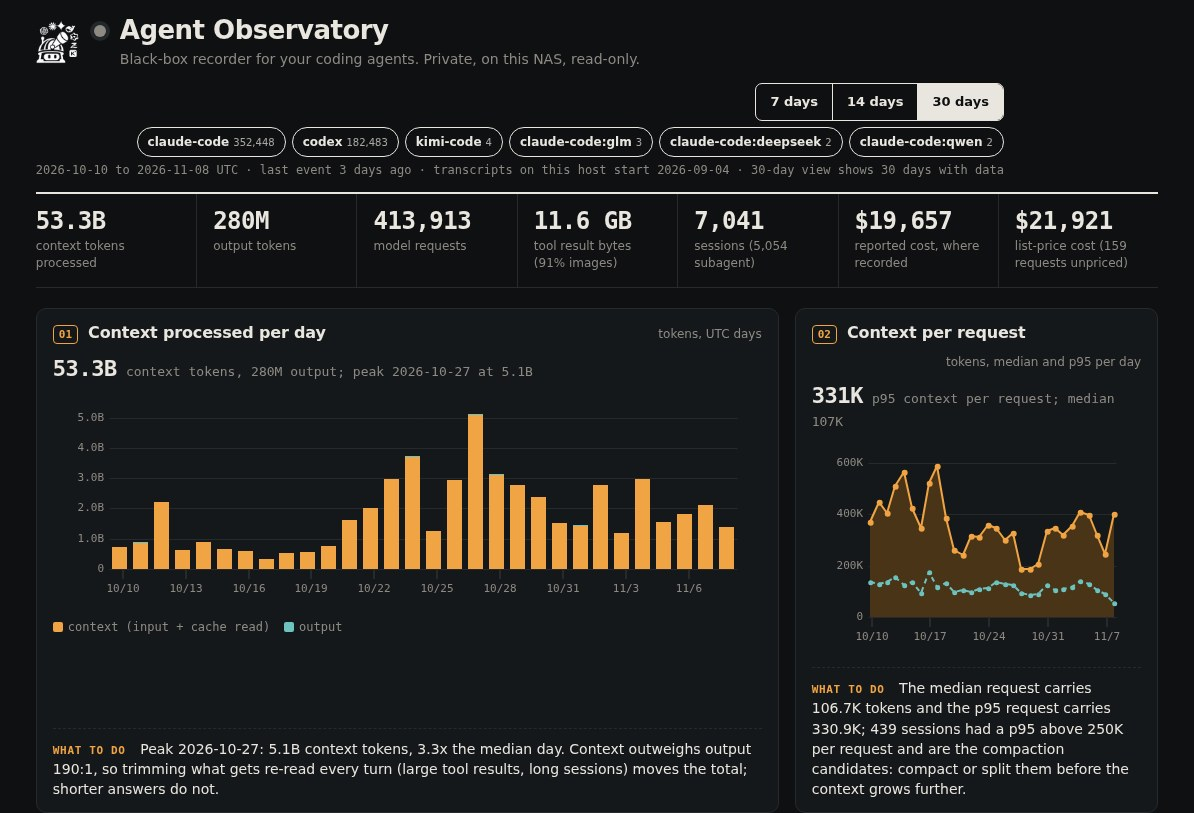
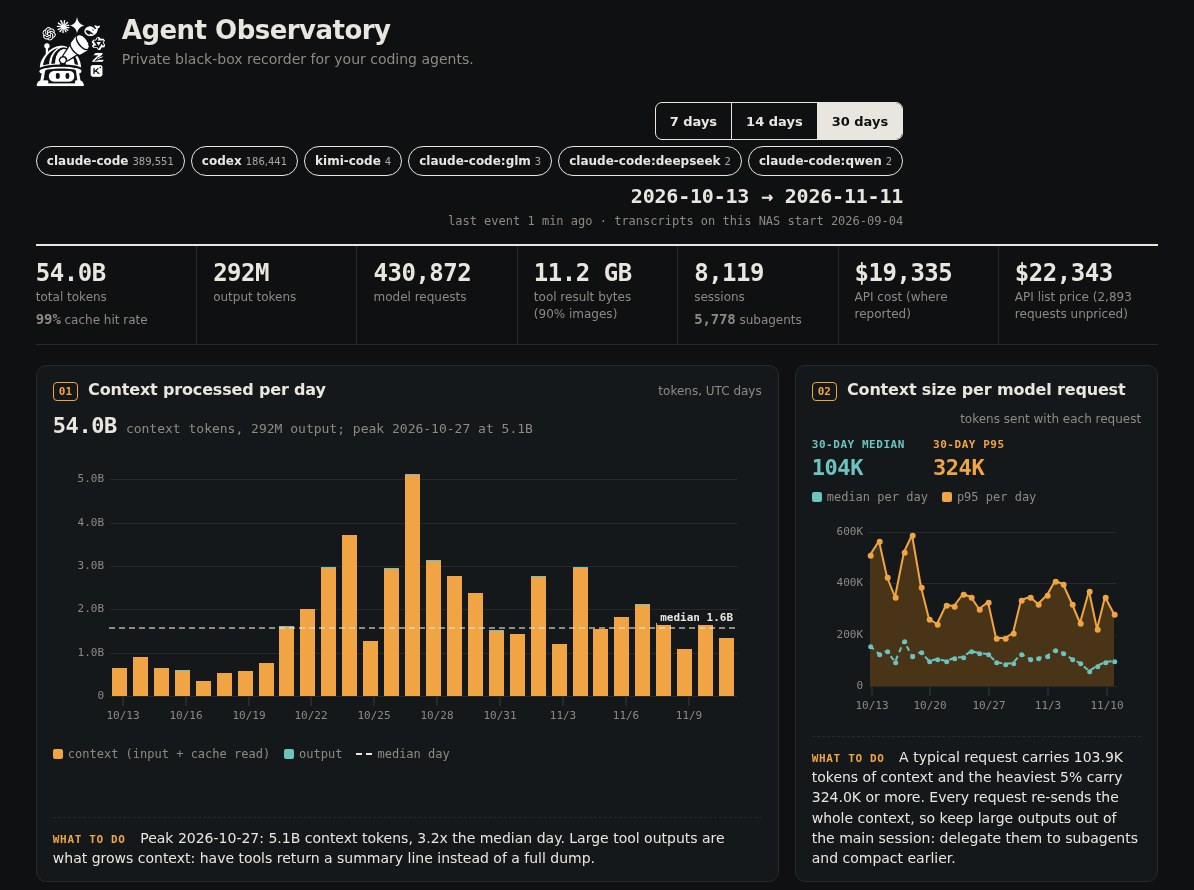
dashboard: clearer header, tiles and context charts

diff --git a/obs/static/app.js b/obs/static/app.js
@@ -90,20 +90,36 @@
       tag.style.left = Math.max(0, (L - u.bbox.left) / dpr + 6) + "px"; };
   }
 
+  // dashed horizontal reference line at value y, labelled at the right edge of the plot
+  function medianHook(y, label) {
+    return (u) => { if (y == null) return;
+      const c = u.ctx, dpr = devicePixelRatio, py = Math.round(u.valToPos(y, "y", true));
+      if (py < u.bbox.top || py > u.bbox.top + u.bbox.height) return;
+      c.save(); c.strokeStyle = css("--ink") || "#888"; c.globalAlpha = 0.75; c.lineWidth = 1.5 * dpr;
+      c.setLineDash([6 * dpr, 4 * dpr]); c.beginPath(); c.moveTo(u.bbox.left, py); c.lineTo(u.bbox.left + u.bbox.width, py); c.stroke();
+      c.setLineDash([]); c.globalAlpha = 1; c.font = `600 ${11 * dpr}px ${css("--mono")}`; c.textAlign = "right"; c.textBaseline = "bottom";
+      const tx = u.bbox.left + u.bbox.width - 4 * dpr, ty = py - 4 * dpr, tw = c.measureText(label).width;
+      c.fillStyle = css("--panel") || "#000"; c.fillRect(tx - tw - 3 * dpr, ty - 13 * dpr, tw + 6 * dpr, 14 * dpr);
+      c.fillStyle = css("--ink") || "#888"; c.fillText(label, tx, ty); c.restore(); };
+  }
+
   function drawContext(d) {
     const rows = d.rows, xs = xsOf(rows), half = stepOf(d) / 2;
     const ctx = rows.map((r) => r.context), tot = rows.map((r) => (r.no_data ? null : r.context + r.output));
     const bar = uPlot.paths.bars({ size: [0.72, 48], align: 0 });
     const ro = $("r-context");
     const key = `<span class="key"><span><i class="sw" style="background:${css("--accent")}"></i>context (input + cache read)</span>` +
-      `<span><i class="sw" style="background:${css("--cool")}"></i>output</span></span>`;
+      `<span><i class="sw" style="background:${css("--cool")}"></i>output</span>` +
+      (d.median_context != null ? `<span><i class="sw dash"></i>median day</span>` : "") + `</span>`;
     ro.innerHTML = key;
     plot("context", $("c-context"), {
+      height: 300,
       scales: { x: { time: true, range: (u, a, b) => [a - half, b + half] }, y: { range: (u, a, b) => [0, b * 1.05] } },
       axes: axes(tok, d.bucket),
       series: [{}, { label: "output", fill: css("--cool"), stroke: css("--cool"), paths: bar, width: 0, points: { show: false } },
                    { label: "context", fill: css("--accent"), stroke: css("--accent"), paths: bar, width: 0, points: { show: false } }],
-      hooks: { draw: [noDataHook(rows, half)], setCursor: [(u) => { const i = u.cursor.idx; if (i == null) { ro.innerHTML = key; return; }
+      hooks: { draw: [noDataHook(rows, half), medianHook(d.median_context, "median " + tok(d.median_context))],
+        setCursor: [(u) => { const i = u.cursor.idx; if (i == null) { ro.innerHTML = key; return; }
         const r = rows[i]; if (r.no_data) { ro.textContent = `${r.day}  no data (before the first recorded event)`; return; }
         ro.textContent = `${r.day}  context ${int(r.context)}  output ${int(r.output)}  requests ${int(r.requests)}`; }] },
     }, [xs, tot, ctx]);
@@ -114,6 +130,9 @@
   function drawCache(d) {
     const rows = d.rows;
     const xs = xsOf(rows), p50 = rows.map((r) => r.p50), p95 = rows.map((r) => r.p95), q = stepOf(d) / 4;
+    const per = d.bucket === "hour" ? "hour" : "day", span = d.bucket === "hour" ? "day" : `${days}-day`;
+    $("r-cache").innerHTML = `<span class="key"><span><i class="sw" style="background:${css("--cool")}"></i>median per ${per}</span>` +
+      `<span><i class="sw" style="background:${css("--accent")}"></i>p95 per ${per}</span></span>`;
     plot("cache", $("c-cache"), {
       scales: { x: { time: true, range: (u, a, b) => [a - q, b + q] }, y: { range: (u, lo, hi) => [0, (hi || 1) * 1.08] } },
       axes: axes((v) => tok(v), d.bucket),
@@ -121,7 +140,9 @@
         { label: "p95", stroke: css("--accent"), width: 2, fill: css("--accent-soft"), points: { show: true, size: 6, fill: css("--accent") } },
         { label: "median", stroke: css("--cool"), width: 2, dash: [5, 4], points: { show: true, size: 5, fill: css("--cool") } }],
     }, [xs, p95, p50]);
-    $("f-cache").innerHTML = d.p95 == null ? "" : `<b>${tok(d.p95)}</b> <span>p95 context per request; median ${tok(d.p50)}</span>`;
+    $("f-cache").innerHTML = d.p95 == null ? "" :
+      `<div class="stat" style="color:${css("--cool")}"><span>${span} median</span><b>${tok(d.p50)}</b></div>` +
+      `<div class="stat" style="color:${css("--accent")}"><span>${span} p95</span><b>${tok(d.p95)}</b></div>`;
   }
 
   const secs = (ms) => { ms = +ms || 0; return ms >= 120000 ? (ms / 60000).toFixed(1) + " min" : (ms / 1000).toFixed(ms < 10000 ? 1 : 0) + " s"; };
@@ -417,24 +438,26 @@
     const w = m.watch_status;
     const rec = $("rec");
     const cv = m.coverage, since = cv && cv.earliest_event ? cv.earliest_event.slice(0, 10) : null;
-    let s = `${m.first_day} to ${m.last_day} UTC · last event ${ago(m.last_event)}`;
-    if (since) s += ` · transcripts on this host start ${since}` + (m.days ? ` · ${m.days}-day view shows ${m.days_with_data} days with data` : "");
+    const a = m.range_start || m.first_day, b = m.range_end || m.last_day;
+    $("range").textContent = a && b ? (a === b ? a : `${a} → ${b}`) : "";
+    let s = m.last_event ? `last event ${ago(m.last_event)}` : "nothing recorded yet";
+    if (since) s += ` · transcripts on this NAS start ${since}`;
     if (STATIC) { /* status already set */ } else if (w) {
-      s += w.ok ? ` · last ingest ${ago(w.last_run)} (${w.seconds}s)` : ` · last ingest failed: ${w.error}`;
       rec.className = "rec " + (w.ok && Date.now() - Date.parse(w.last_run) < 3 * (w.interval_min || 10) * 60000 ? "live" : "stale");
     } else rec.className = "rec";
     if (!STATIC) $("status").textContent = s;
     const k = [
-      [tok(m.context_tokens), "context tokens processed"],
+      [tok(m.context_tokens), "total tokens", m.cache_hit_rate != null ? [pct(m.cache_hit_rate, 0), "cache hit rate"] : null],
       [tok(m.output_tokens), "output tokens"],
       [int(m.requests), "model requests"],
       [bytes(m.tool_bytes), m.image_bytes ? `tool result bytes (${pct(m.image_bytes / (m.tool_bytes || 1), 0)} images)` : "tool result bytes"],
-      [int(m.sessions), `sessions (${int(m.subagent_sessions)} subagent)`],
-      [m.cost_usd ? "$" + Math.round(m.cost_usd).toLocaleString("en-US") : "n/a", "reported cost, where recorded"],
-      [m.list_cost_usd ? "$" + Math.round(m.list_cost_usd).toLocaleString("en-US") : "n/a", `list-price cost (${int(m.list_unpriced)} requests unpriced)`],
+      [int(m.sessions), "sessions", [int(m.subagent_sessions), m.subagent_sessions === 1 ? "subagent" : "subagents"]],
+      [m.cost_usd ? "$" + Math.round(m.cost_usd).toLocaleString("en-US") : "n/a", "API cost (where reported)"],
+      [m.list_cost_usd ? "$" + Math.round(m.list_cost_usd).toLocaleString("en-US") : "n/a", `API list price (${int(m.list_unpriced)} requests unpriced)`],
     ];
     if (m.prices_as_of) $("prices").textContent = `${m.prices_as_of}. Reported cost $${(+m.cost_usd || 0).toFixed(2)} (harness, where recorded); list-price cost $${(+m.list_cost_usd || 0).toFixed(2)}.`;
-    $("kpis").innerHTML = k.map(([v, l]) => `<div class="kpi"><div class="v">${esc(v)}</div><div class="k">${esc(l)}</div></div>`).join("");
+    $("kpis").innerHTML = k.map(([v, l, x]) => `<div class="kpi"><div class="v">${esc(v)}</div><div class="k">${esc(l)}</div>` +
+      (x ? `<div class="x"><b>${esc(x[0])}</b> ${esc(x[1])}</div>` : "") + `</div>`).join("");
   }
 
   const PANELS = ["context", "cache", "tools", "largest", "repeats", "sessions", "models", "loops", "subagents", "skills", "bash", "readtypes", "compactions", "beforeafter"];

diff --git a/obs/static/app.css b/obs/static/app.css
@@ -44,6 +44,8 @@ h1 { font: 700 26px/1.1 var(--sans); letter-spacing: -0.02em; margin: 0; }
   border: 0; border-left: 1px solid var(--ink); cursor: pointer; }
 .seg button:first-child { border-left: 0; }
 .seg button[aria-pressed="true"] { background: var(--ink); color: var(--bg); }
+.range { margin: 2px 0 0; font: 700 20px/1.2 var(--mono); letter-spacing: -0.01em; text-align: right; }
+.range:empty { display: none; }
 .status { margin: 0; font: 12px/1.3 var(--mono); color: var(--muted); text-align: right; }
 
 .kpis { max-width: 1360px; margin: 0 auto; display: grid; grid-template-columns: repeat(auto-fit, minmax(150px, 1fr));
@@ -52,6 +54,8 @@ h1 { font: 700 26px/1.1 var(--sans); letter-spacing: -0.02em; margin: 0; }
 .kpi + .kpi { padding-left: 16px; border-left: 1px solid var(--rule); }
 .kpi .v { font: 600 24px/1.1 var(--mono); letter-spacing: -0.02em; }
 .kpi .k { font-size: 12px; color: var(--muted); margin-top: 3px; }
+.kpi .x { font-size: 12px; color: var(--muted); margin-top: 6px; }
+.kpi .x b { font: 600 14px/1 var(--mono); letter-spacing: -0.01em; }
 
 .grid { max-width: 1360px; margin: 20px auto 0; display: grid; grid-template-columns: repeat(12, minmax(0, 1fr)); gap: 16px; }
 .panel { background: var(--panel); border: 1px solid var(--rule); border-radius: 10px; padding: 14px 16px 12px;
@@ -65,10 +69,15 @@ h2 { font: 650 16px/1.2 var(--sans); margin: 0; letter-spacing: -0.01em; }
 .figure { font: 600 15px/1.35 var(--mono); margin: 10px 0 6px; }
 .figure b { font-size: 22px; letter-spacing: -0.02em; }
 .figure span { color: var(--muted); font-weight: 400; font-size: 13px; }
+.figure.duo { display: flex; gap: 28px; flex-wrap: wrap; }
+.figure.duo .stat { display: flex; flex-direction: column; gap: 2px; }
+.figure.duo .stat span { color: inherit; font: 600 11px/1.2 var(--mono); text-transform: uppercase; letter-spacing: .05em; }
+.figure.duo .stat b { font-size: 22px; }
 .chart { min-height: 220px; }
 .readout { font: 12px/1.4 var(--mono); color: var(--muted); min-height: 1.4em; }
 .key { display: inline-flex; gap: 14px; }
 .sw { display: inline-block; width: 10px; height: 10px; border-radius: 2px; margin-right: 5px; vertical-align: -1px; }
+.sw.dash { width: 16px; height: 0; border-radius: 0; border-top: 2px dashed var(--ink); vertical-align: 3px; }
 .hint { margin: auto 0 0; padding-top: 10px; border-top: 1px dashed var(--rule); font-size: 14px; line-height: 1.45; }
 .hint::before { content: "What to do  "; font: 700 11px/1 var(--mono); letter-spacing: .06em; text-transform: uppercase;
   color: var(--accent); white-space: pre; }
@@ -99,7 +108,7 @@ tr:hover td { background: var(--bar); }
 .uplot { font-family: var(--mono); }
 @media (max-width: 860px) {
   .controls { align-items: flex-start; width: 100%; }
-  .status { text-align: left; }
+  .status, .range { text-align: left; }
   .kpis { grid-template-columns: repeat(3, 1fr); }
   .kpi, .kpi + .kpi { padding: 12px 10px; border-left: 0; border-top: 1px solid var(--rule); }
 }

diff --git a/obs/static/index.html b/obs/static/index.html
@@ -17,7 +17,7 @@
     <span class="rec" id="rec" title="recorder status"></span>
     <div>
       <h1>Agent Observatory</h1>
-      <p class="sub">Black-box recorder for your coding agents. Private, on this NAS, read-only.</p>
+      <p class="sub">Private black-box recorder for your coding agents.</p>
     </div>
   </div>
   <div class="controls">
@@ -25,6 +25,7 @@
       <button data-days="7">7 days</button><button data-days="14">14 days</button><button data-days="30">30 days</button>
     </div>
     <div class="chips" id="chips" role="group" aria-label="Harness filter"></div>
+    <p class="range" id="range"></p>
     <p class="status" id="status">Reading the recorder&hellip;</p>
   </div>
 </header>
@@ -41,8 +42,9 @@
   </article>
 
   <article class="panel narrow" id="p-cache">
-    <header><span class="ch">02</span><h2>Context per request</h2><span class="unit">tokens, median and p95 per day</span></header>
-    <div class="figure" id="f-cache"></div>
+    <header><span class="ch">02</span><h2>Context size per model request</h2><span class="unit">tokens sent with each request</span></header>
+    <div class="figure duo" id="f-cache"></div>
+    <div class="readout" id="r-cache"></div>
     <div class="chart" id="c-cache"></div>
     <p class="hint" id="h-cache"></p>
   </article>

diff --git a/obs/panels.py b/obs/panels.py
@@ -3,7 +3,7 @@
 A View is either a trailing range of UTC days ending at the newest recorded day (dashboard) or one
 UTC day (report.html, charts bucketed by hour). Every panel returns {"rows": [...], "hint": "...", ...}.
 """
-import glob, json, os, re, threading
+import glob, json, os, re, statistics, threading
 from datetime import date, datetime, timedelta, timezone
 import duckdb
 from .ingest import IMAGE_TOKENS
@@ -213,6 +213,8 @@ def p_meta(v):
         count(distinct session_id) filter (agent='subagent') subagent_sessions,
         count(*) filter (event_type='llm_request') requests,
         coalesce(sum(input_tokens + cache_read_tokens),0) context_tokens,
+        coalesce(sum(input_tokens) filter (cache_read_tokens is not null),0) input_tokens,
+        coalesce(sum(cache_read_tokens) filter (input_tokens is not null),0) cache_read_tokens,
         coalesce(sum(output_tokens),0) output_tokens,
         coalesce(sum(content_bytes) filter (event_type='tool_result'),0) tool_bytes,
         coalesce(sum(image_bytes) filter (event_type='tool_result'),0) image_bytes,
@@ -230,6 +232,14 @@ def p_meta(v):
             except ValueError:
                 pass
     m["days"], m["day"] = v.days, v.day
+    # share of context served from cache: cache_read / (input + cache_read), selected range
+    m["cache_hit_rate"] = (m["cache_read_tokens"] / m["context_tokens"]) if m["context_tokens"] else None
+    if v.day:
+        m["range_start"] = m["range_end"] = v.day
+    else:
+        end = v.q("select max(cast(ts as date))::varchar e from raw")[0]["e"]
+        m["range_end"] = end
+        m["range_start"] = (date.fromisoformat(end) - timedelta(days=v.days - 1)).isoformat() if end else None
     m["harnesses"], m["harness_filter"] = v.harnesses(), v.harness
     g = v.q("""select strftime(min(ts), '%Y-%m-%dT%H:%M:%SZ') e, strftime(max(ts), '%Y-%m-%dT%H:%M:%SZ') l,
         (select count(distinct cast(ts as date)) from ev) wd from raw""")[0]
@@ -257,16 +267,17 @@ def p_context(v):
     med = sorted(r["context"] for r in rows)[len(rows) // 2] or 1
     ctx, outp = sum(r["context"] for r in rows), sum(r["output"] for r in rows) or 1
     unit = "hour" if v.bucket == "hour" else "day"
+    days_med = statistics.median(r["context"] for r in rows)
     hint = (f"Peak {peak['day']}: {human_tokens(peak['context'])} context tokens, {peak['context'] / med:.1f}x the median {unit}. "
-            f"Context outweighs output {ctx / outp:,.0f}:1, so trimming what gets re-read every turn "
-            f"(large tool results, long sessions) moves the total; shorter answers do not.")
+            f"Large tool outputs are what grows context: have tools return a summary line instead of a full dump.")
     if not v.day:
         g = v.q("select strftime(min(ts), '%Y-%m-%d') e, strftime(max(ts), '%Y-%m-%d') l from raw")[0]
         pad = no_data_rows(rows[0]["day"], g["l"], v.days, g["e"], ["input", "cache_read", "cache_write", "output", "requests", "context"])
         rows = pad + rows
         if pad:
             hint += f" {pad[0]['day']} to {pad[-1]['day']} predate the first recorded event ({g['e']}): no data, not zero."
-    return {"rows": rows, "hint": hint, "total_context": ctx, "total_output": outp, "bucket": v.bucket}
+    return {"rows": rows, "hint": hint, "total_context": ctx, "total_output": outp, "median_context": days_med,
+            "bucket": v.bucket}
 
 
 def p_cache(v):
@@ -279,17 +290,12 @@ def p_cache(v):
     o = v.q("""select quantile_cont(input_tokens + cache_read_tokens, 0.5)::bigint p50,
         quantile_cont(input_tokens + cache_read_tokens, 0.95)::bigint p95, count(*)::bigint requests
         from ev where event_type='llm_request' and input_tokens + cache_read_tokens > 0""")[0]
-    big = v.q("""select count(*)::bigint n from (select session_id from ev
-        where event_type='llm_request' and input_tokens + cache_read_tokens > 0
-        group by 1 having quantile_cont(input_tokens + cache_read_tokens, 0.95) > 250000)""")[0]["n"]
     if not o["requests"]:
-        return {"rows": rows, "hint": f"No model requests recorded {v.span}.", "p50": None, "p95": None,
-                "big_sessions": 0, "bucket": v.bucket}
-    hint = (f"The median request carries {human_tokens(o['p50'])} tokens and the p95 request carries "
-            f"{human_tokens(o['p95'])}; {big} session{'s' if big != 1 else ''} had a p95 above 250K per request "
-            f"and {'are the compaction candidates' if big != 1 else 'is the compaction candidate'}: "
-            f"compact or split them before the context grows further.")
-    return {"rows": rows, "hint": hint, "p50": o["p50"], "p95": o["p95"], "big_sessions": big,
+        return {"rows": rows, "hint": f"No model requests recorded {v.span}.", "p50": None, "p95": None, "bucket": v.bucket}
+    hint = (f"A typical request carries {human_tokens(o['p50'])} tokens of context and the heaviest 5% carry "
+            f"{human_tokens(o['p95'])} or more. Every request re-sends the whole context, so keep large outputs out of "
+            f"the main session: delegate them to subagents and compact earlier.")
+    return {"rows": rows, "hint": hint, "p50": o["p50"], "p95": o["p95"],
             "requests": o["requests"], "bucket": v.bucket}
 
 

diff --git a/tests/test_coverage.py b/tests/test_coverage.py
@@ -38,3 +38,24 @@ def test_day_before_earliest_is_no_data(tmp_path):
         assert pre and all(r["no_data"] and r["context"] is None for r in pre), panel
         assert not any(r.get("no_data") for r in rows if r["day"] >= first)
         assert len({r["day"] for r in rows}) == len(rows)
+
+
+def test_meta_cache_hit_rate_and_range(tmp_path):
+    data, first = _ingest(tmp_path)
+    m = PANELS["meta"](View(Store(data), days=30))["rows"][0]
+    assert m["context_tokens"] == m["input_tokens"] + m["cache_read_tokens"]
+    assert m["cache_hit_rate"] == m["cache_read_tokens"] / m["context_tokens"]
+    assert 0 <= m["cache_hit_rate"] <= 1
+    end = datetime.fromisoformat(m["range_end"])
+    assert m["range_end"] == m["last_day"] and (end - datetime.fromisoformat(m["range_start"])).days == 29
+
+
+def test_context_median_and_hints(tmp_path):
+    data, _ = _ingest(tmp_path)
+    st = Store(data)
+    c = PANELS["context"](View(st, days=30))
+    vals = sorted(r["context"] for r in c["rows"] if not r.get("no_data"))
+    assert vals[0] <= c["median_context"] <= vals[-1]
+    assert "outweighs" not in c["hint"] and "tool output" in c["hint"]
+    k = PANELS["cache"](View(st, days=30))
+    assert k["p50"] <= k["p95"] and "split" not in k["hint"] and "subagents" in k["hint"]
